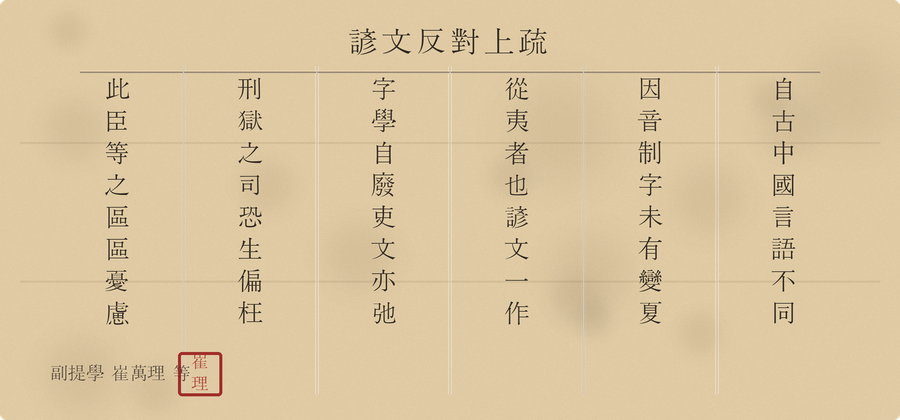
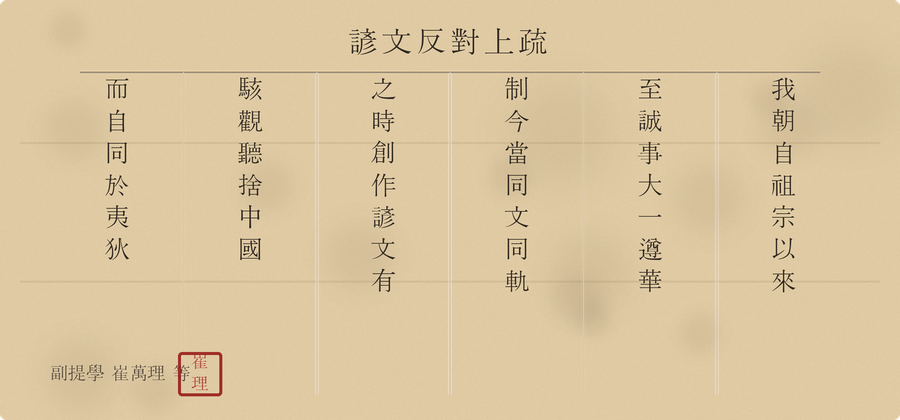
최만리 상소문 그래픽을 실제 세종실록 원문으로 교체 + 세로선 삐져나옴 수정
- 이전 한자 원문은 게임용으로 새로 조합한 문구라 한글 풀이와 정확히
  대응하는지 검증이 안 된 상태였음(사용자 지적). 세종실록 26년(1444)
  2월 20일자에 실제로 기록된 최만리 등 갑자상소 원문
  ("我朝自祖宗以來至誠事大一遵華制今當同文同軌之時創作諺文有駭觀聽
  捨中國而自同於夷狄")으로 교체하고, 한글 풀이도 이 원문에 정확히
  대응하는 번역으로 다시 씀(출처 표기 추가)
- 컬럼 구분 세로선이 상단 표제 밑줄 위로 삐져나오던 것 수정 — 세로선
  시작점을 밑줄 y좌표에 맞춤

diff --git a/www/ch2.html b/www/ch2.html
@@ -586,7 +586,7 @@ const NPC_DATA = {
       { who:'npc', name:'신숙주', icon:'🖋', img:'assets/portraits/sinsukju.png', t:'저는 신숙주라 합니다. 앞으로 전하의 여러 사업을 함께 도울 테니, 잘 부탁드립니다.' },
       { who:'npc', t:'마침 잘 왔군. 최만리를 비롯한 신하들이 언문(훈민정음)에 반대하는 상소를 올렸다네. 자네도 함께 들어보겠나?' },
       { who:'doc', docImg:'assets/scenes/choemalli_sangso_full.png',
-        t:'(한글 풀이) 예로부터 중국과 말이 달라도 각자 소리에 따라 글자를 만든 적은 있으나, 오랑캐가 아니고서야 별도의 글자를 만든 나라는 없었습니다. 언문을 쓰기 시작하면 한자를 배우는 학문 자체가 쇠퇴할 것이고, 형벌을 다루는 관리들마저 언문에만 의지해 학문을 소홀히 할까 신 등은 깊이 근심하는 바입니다.\n— 부제학 최만리 등' },
+        t:'(한글 풀이·세종실록 26년 2월 20일자 원문) 우리 조선은 조종 때부터 지성으로 큰 나라를 섬기며 중화의 제도를 그대로 따라왔는데, 이제 글과 법도를 중국과 함께하는 이때에 언문을 창작하신 것은 보고 듣기에 놀랍습니다. 이는 중화를 버리고 스스로 오랑캐와 같아지려는 것입니다.\n— 부제학 최만리 등' },
     ],
     quizSeq: [
       { q:'최만리의 상소에 대해 세종이 실제로 편 반박 논리는?',

diff --git a/www/assets/scenes/gen_choemalli_sangso_full.py b/www/assets/scenes/gen_choemalli_sangso_full.py
@@ -63,15 +63,18 @@ for c in title:
     tx += cw + 4 * S
 d.line([(80 * S, ty + 46 * S), (W - 80 * S, ty + 46 * S)], fill=(90, 65, 35, 160), width=int(1.5 * S))
 
-# 본문: 실제 최만리 등 갑자상소(1444)의 핵심 논지를 참고해 새로 쓴 요약 문구
-# (원문 그대로가 아니라 이 게임 톤에 맞춰 재구성한 것 — 프로젝트 공통 원칙)
+# 본문: 세종실록 26년(1444) 2월 20일자에 실제로 기록된 최만리 등 갑자상소의
+# 원문 한자를 그대로 옮김(창작 문구 아님) — "我朝自祖宗以來至誠事大一遵華制
+# 今當同文同軌之時創作諺文有駭觀聽"(집현전 부제학 최만리 등이 사대모화를
+# 근거로 반대한 대목) + "捨中國而自同於夷狄"(중화를 버리고 오랑캐와
+# 같아진다는 대목). 한글 풀이(beat.t)도 이 원문에 정확히 대응하도록 작성.
 columns = [
-    '自古中國言語不同',
-    '因音制字未有變夏',
-    '從夷者也諺文一作',
-    '字學自廢吏文亦弛',
-    '刑獄之司恐生偏枉',
-    '此臣等之區區憂慮',
+    '我朝自祖宗以來',
+    '至誠事大一遵華',
+    '制今當同文同軌',
+    '之時創作諺文有',
+    '駭觀聽捨中國',
+    '而自同於夷狄',
 ]
 n_cols = len(columns)
 margin_x = 50 * S
@@ -91,7 +94,9 @@ for i, text in enumerate(columns):
         y += line_gap
     if col_idx != 0:
         lx = margin_x + col_idx * col_w
-        d.line([(lx, top_y - 10 * S), (lx, bottom_y)], fill=(90, 65, 35, 70), width=int(1 * S))
+        # 세로 구분선의 위쪽 끝을 표제 밑줄(가로선) 위치에 맞춤 — 그 위로
+        # 삐져나오면 가로선을 뚫고 나온 것처럼 보이는 문제가 있었음.
+        d.line([(lx, ty + 46 * S), (lx, bottom_y)], fill=(90, 65, 35, 70), width=int(1 * S))
 
 # 좌하단 서명 조 + 낙관(붉은 도장)
 sign_font = ImageFont.truetype(font_path, int(18 * S))
